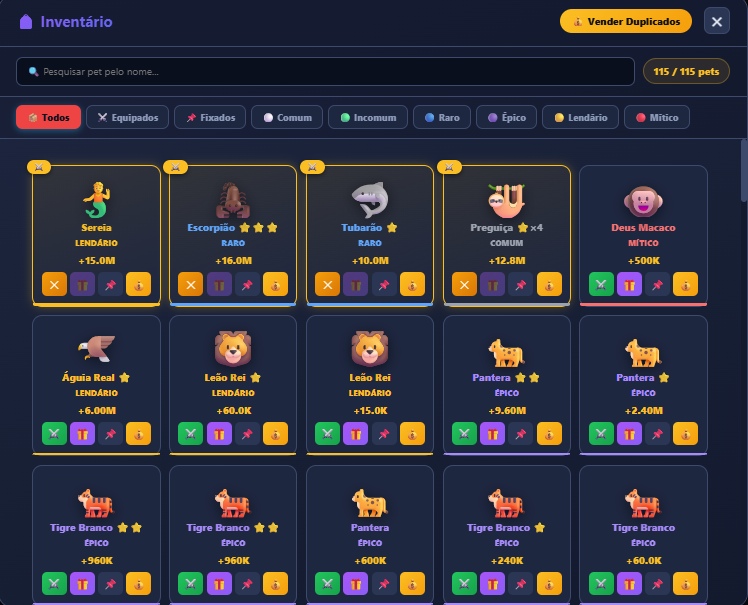
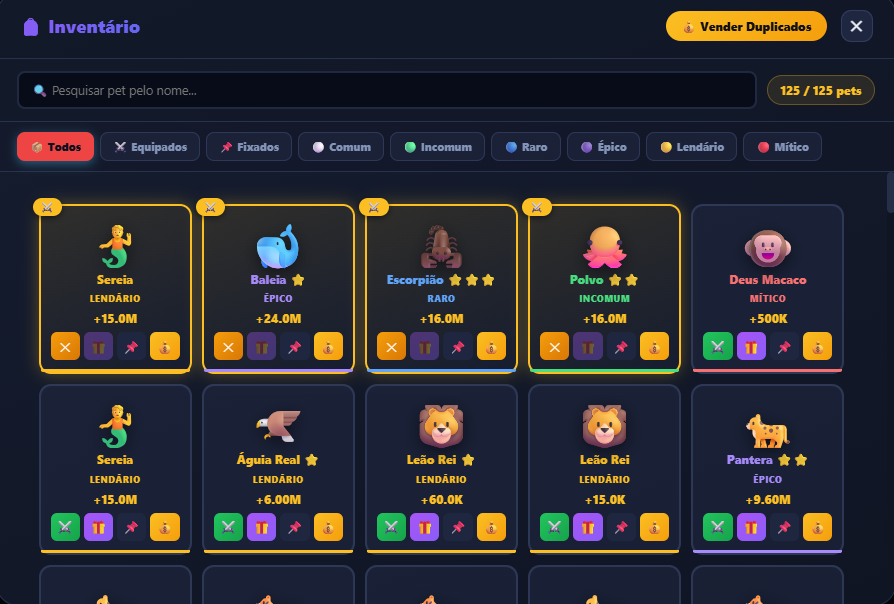
Adicionar screenshots da v1.3.0

diff --git a/README.md b/README.md
@@ -32,26 +32,41 @@
 | ❄ Mundo Gelo | 🏆 Sistema Social |
 |:---:|:---:|
 | ![Mundo Gelo](screenshots/screenshot-gelo.png) | ![Sistema Social](screenshots/screenshot-social.png) |
-| Desbloqueado com **10 rebirths**. O reino do gelo eterno! | Amigos, mensagens privadas e presentes. |
+| Desbloqueado com **10 rebirths**. O reino do gelo eterno! | Adiciona amigos e vê quem está online. |
 
-### 🎒 Inventário, Coleção e Rankings
-
-| 🎒 Inventário Renovado | 🏆 Coleção de Pets |
-|:---:|:---:|
-| ![Inventário](screenshots/screenshot-inventario.png) | ![Coleção](screenshots/screenshot-colecao-1.png) |
-| Grid limpo com filtros, pesquisa e ações rápidas. | Acompanha os pets que descobriste. |
-
-| 🌍 Ranking Global | 📅 Ranking Semanal |
-|:---:|:---:|
-| ![Ranking Total](screenshots/screenshot-ranking-total.png) | ![Ranking Semanal](screenshots/screenshot-ranking-semanal.png) |
-| Top 50 jogadores de sempre. | Reinicia todas as segundas-feiras. |
-
-### 💬 Chat, Mensagens e Personalização
+### 💬 Chat, Mensagens e Presentes
 
 | 💬 Chat Global | 💌 Mensagens Privadas |
 |:---:|:---:|
 | ![Chat](screenshots/screenshot-chat.png) | ![Mensagens](screenshots/screenshot-mensagens.png) |
 | Conversa em tempo real com todos os jogadores. | Conversas 1-a-1 com histórico. |
+
+| 🎁 Presentes | 🎒 Inventário Renovado |
+|:---:|:---:|
+| ![Presentes](screenshots/screenshot-presentes.png) | ![Inventário](screenshots/screenshot-inventario.png) |
+| Envia e recebe pets de outros jogadores. | Grid com filtros, pesquisa e ações rápidas. |
+
+### 🏆 Coleção de Pets
+
+| 🌱 Iniciante | 🌴 Selva |
+|:---:|:---:|
+| ![Coleção Iniciante](screenshots/screenshot-colecao-1.png) | ![Coleção Selva](screenshots/screenshot-colecao-2.png) |
+
+| 🌊 Oceano | 🌌 Cósmico |
+|:---:|:---:|
+| ![Coleção Oceano](screenshots/screenshot-colecao-3.png) | ![Coleção Cósmico](screenshots/screenshot-colecao-4.png) |
+
+| ❄ Gelo | 🧬 Fusão de Pets |
+|:---:|:---:|
+| ![Coleção Gelo](screenshots/screenshot-colecao-5.png) | ![Fusão](screenshots/screenshot-fusao.png) |
+| 21 pets do reino gelado para descobrir! | Junta 3 iguais → pet ×4 mais forte. |
+
+### 🏅 Rankings e Estatísticas
+
+| 🌍 Ranking Total | 📅 Ranking Semanal |
+|:---:|:---:|
+| ![Ranking Total](screenshots/screenshot-ranking-total.png) | ![Ranking Semanal](screenshots/screenshot-ranking-semanal.png) |
+| Top 50 jogadores de sempre. | Reinicia todas as segundas-feiras. |
 
 | 📊 Estatísticas | 🌈 Temas |
 |:---:|:---:|
@@ -115,12 +130,29 @@
 
 ---
 
-## 🆕 Novidades da v1.3.0
+## 🆕 Histórico de Versões
 
-- 🍔 **Menu Hamburger** — todos os modos de jogo num menu compacto e elegante
-- ✨ **Design Renovado** — paleta de cores moderna, glassmorphism, sombras em camadas
-- 🎨 **Cards de ovos com gradiente** e animações subtis
-- 🐛 **Correção do bug das milestones** — agora aparecem só uma vez, mesmo ao reabrir
+### v1.3.0 — Design Renovado & Menu Hamburger
+- 🍔 Menu hamburger com todos os modos
+- ✨ Design moderno com glassmorphism
+- 🐛 Correção do bug das milestones (agora aparecem só uma vez)
+
+### v1.2.1 — Correção de Estrutura
+- 📁 Reorganização em `src/` e `assets/`
+
+### v1.2.0 — Era Social & Mundo de Gelo
+- ❄ 5º mundo: Gelo (21 novos pets)
+- 👥 Amigos, mensagens privadas e presentes
+- 🌈 5 temas desbloqueáveis
+- 🎒 Inventário em modal
+
+### v1.1.0 — Áudio & Retenção
+- 🎵 Música de fundo + efeitos sonoros
+- 👶 Tutorial interativo
+- 🌙 Ganhos offline
+
+### v1.0.0 — Lançamento Inicial
+- 🎮 4 mundos, 150+ pets, ranking online, chat
 
 ---
 
